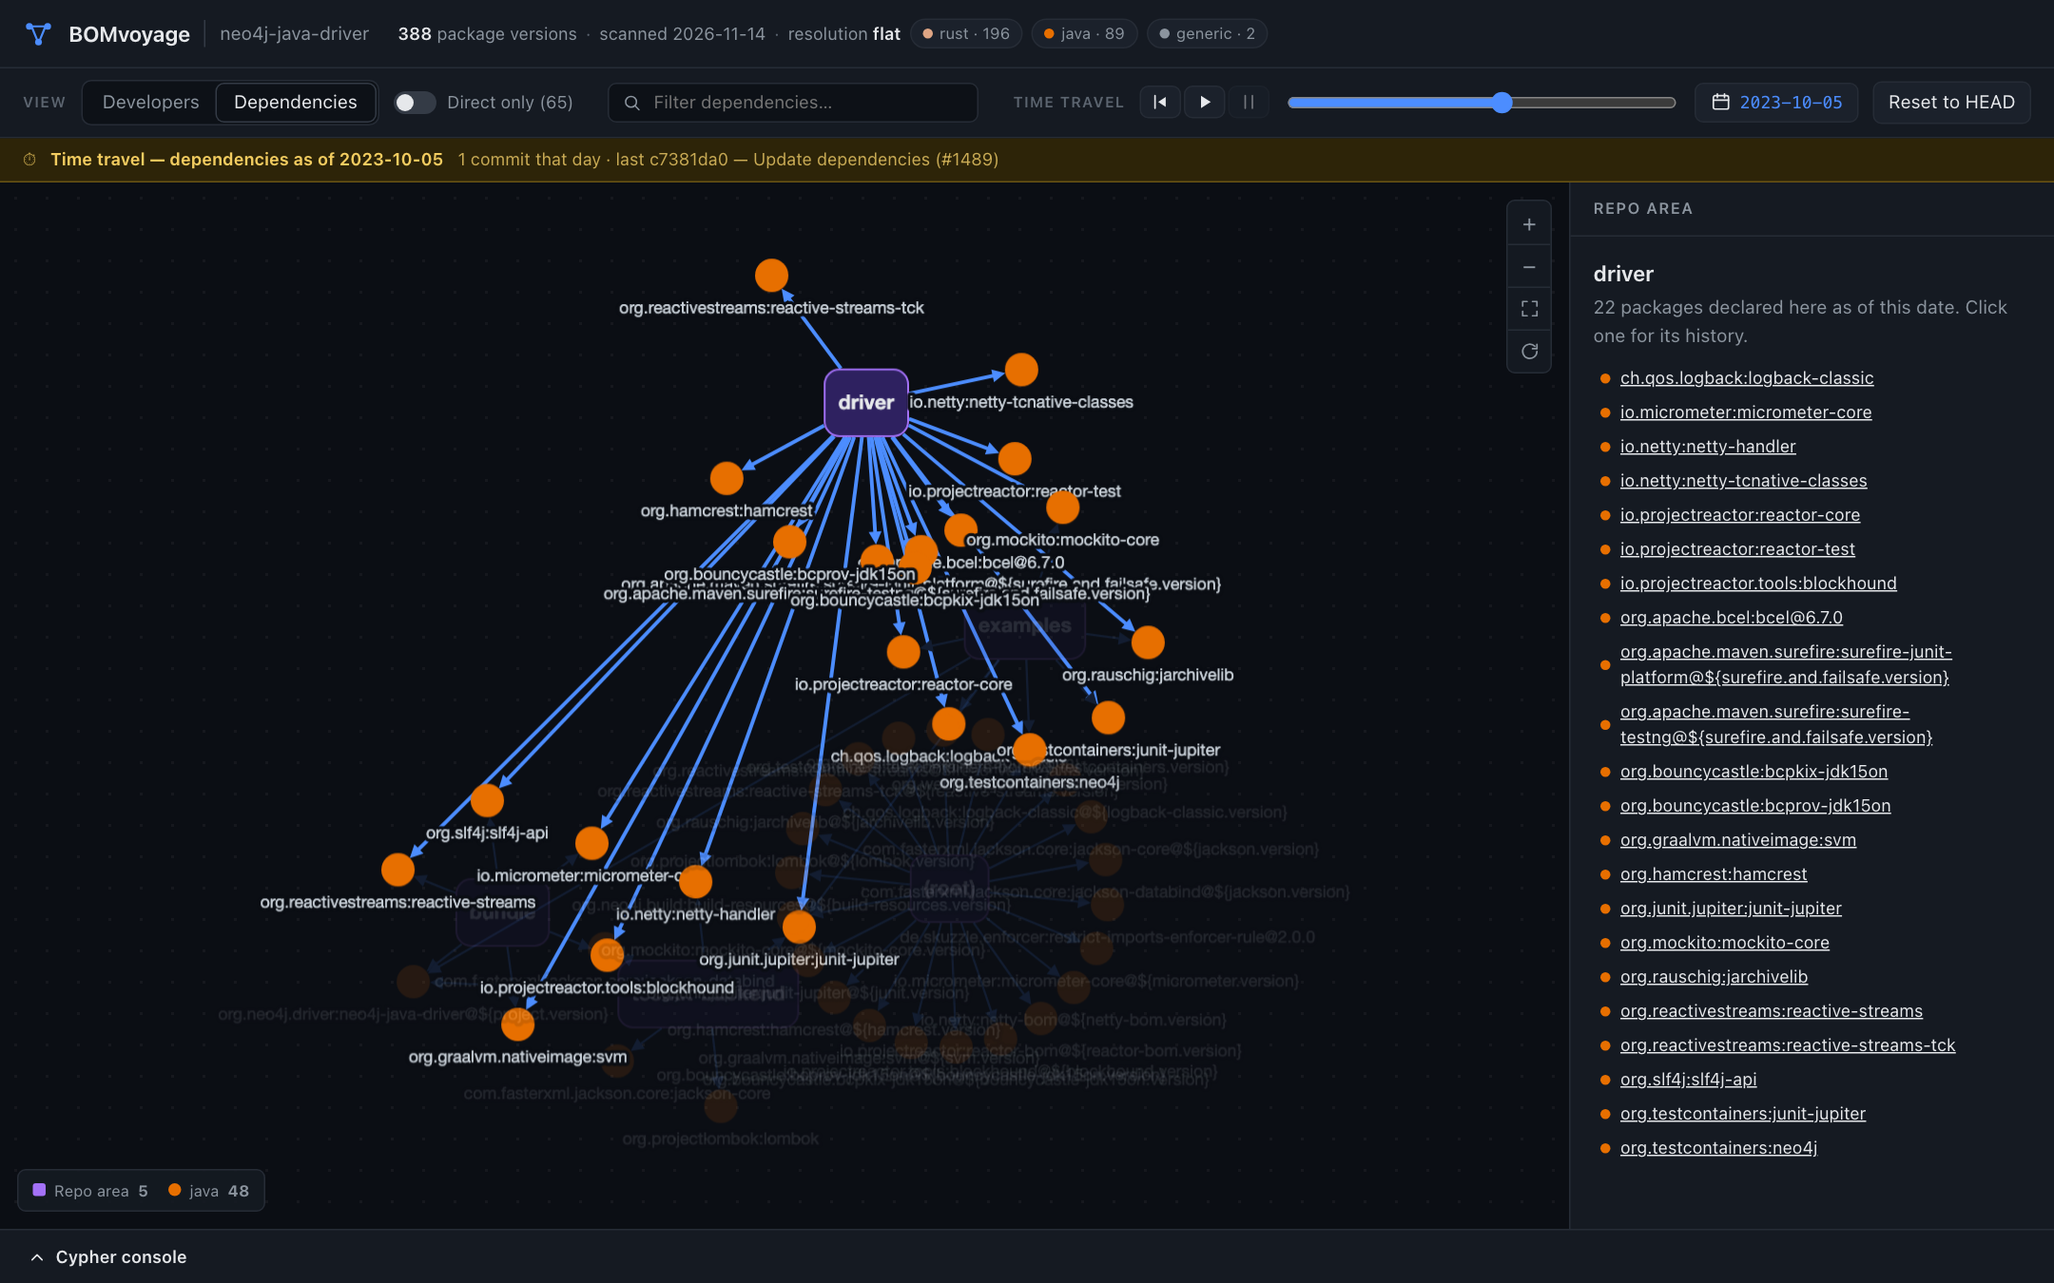
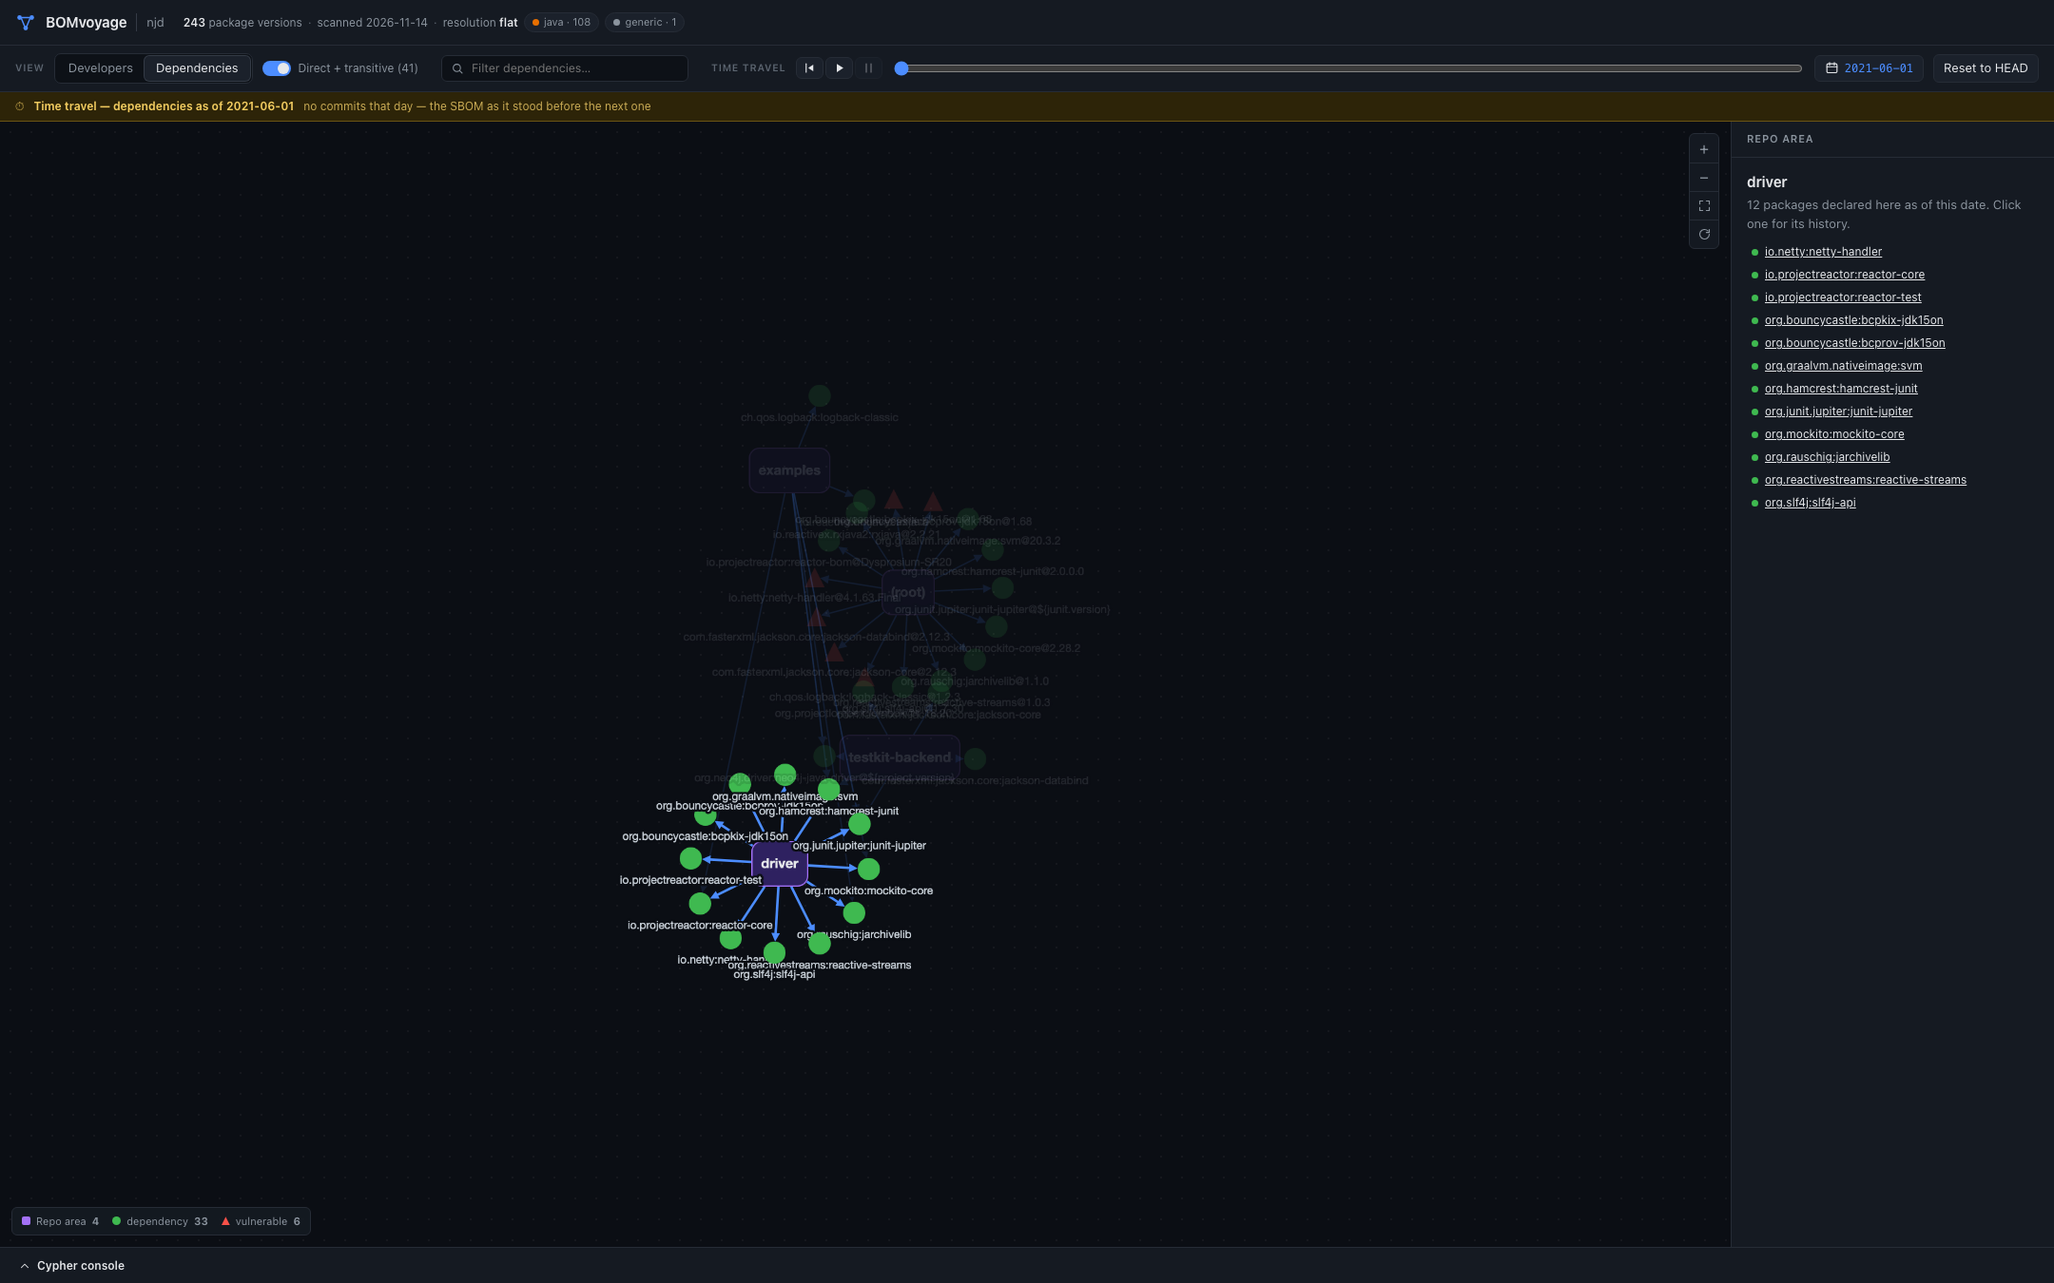
docs: detailed mode — README, security disclosure, test inventory, screenshots
- README: CLI block with the new flags/subcommand, a 'Detailed mode
  (deps.dev)' section with the third-party network disclosure, the
  green/red color scheme, cache and BOMVOYAGE_DEPSDEV_KEY
- SECURITY.md: what detailed mode sends (dependency names + versions to
  api.deps.dev; advisory IDs to api.osv.dev), what it never sends, the
  transport policy, and advice to leave it off where dependency
  metadata is sensitive
- TESTS.md: full inventory at 71 tests incl. the depsdev suite, the
  node --check UI gates and the binary-level detailed-mode regression
- agent skill: detailed mode commands + the vulnerable-deps Cypher
- screenshots: regenerated from a live --detailed --vuln-details
  session over neo4j-java-driver (green packages, red triangles,
  jackson-databind advisory list with severity chips)
- RELEASING.md: stale test count (32 → 71)

diff --git a/README.md b/README.md
@@ -54,10 +54,13 @@ the view you're looking at.
 
 All screenshots below are real BOMvoyage sessions over the
 [neo4j-java-driver](https://github.com/neo4j/neo4j-java-driver) repository
-(388 package versions across 204 commits).
+(242 package versions across 317 commits), run in detailed mode
+(`--detailed --vuln-details`) — packages render green, and any with known
+security advisories break out as red triangles.
 
-**The Developers view** — who added what, at `2023-10-05` mid-playback. Developer
-hubs fan out to the packages they touched; the slider is mid-sweep:
+**The Developers view** — who added what, at `2021-06-01` mid-time-travel.
+Developer hubs fan out to the packages they added; red triangles mark the
+versions with known advisories:
 
 ![Developers view — the Neo4j Java driver's dependency history, mid-playback](docs/screenshots/developers.png)
 
@@ -66,10 +69,11 @@ packages highlighted and listed in the inspector:
 
 ![Dependencies view — the driver module's declared packages](docs/screenshots/dependencies.png)
 
-**A package's story** — `org.slf4j:slf4j-api` as of `2021-08-18`: who added it and
-when, its version timeline, and where it's used:
+**A package's story** — `com.fasterxml.jackson.core/jackson-databind@2.12.3`
+as of `2021-06-01`: license, deps.dev / repository links, and its 15 security
+advisories with severity chips, each linking to its osv.dev page:
 
-![Package inspector — slf4j-api's version timeline](docs/screenshots/package-inspector.png)
+![Package inspector — jackson-databind's advisories with severity chips](docs/screenshots/package-inspector.png)
 
 ## Why a graph, and why embedded
 
@@ -100,15 +104,64 @@ comparison is chronological.
 
 ```text
 bomvoyage                                  # scan + serve (the demo path)
+bomvoyage --detailed                       # the same, with deps.dev data on the graph
 bomvoyage scan   [PATH] [--db bomvoyage.rl] [--force] [--max-commits N]
 bomvoyage serve  [--db bomvoyage.rl] [--port 8334] [--open]
 bomvoyage export [--db bomvoyage.rl] [--format spdx|cyclonedx|json|csv] [--as-of DATE|SHA] [-o FILE]
 bomvoyage query  [--db bomvoyage.rl] <CYPHER>
+bomvoyage detailed [--db bomvoyage.rl] [--vuln-details] [--refresh]   # add deps.dev data to an existing graph, no rescan
 bomvoyage update check                      # is there a newer release?
 bomvoyage update apply                      # upgrade the binary in place
 bomvoyage skill install                     # install the agent skill for every coding agent on this machine
 bomvoyage skill list                        # which agents are detected / installed
 ```
+
+`--detailed`, `--vuln-details` and `--more-detailed` (= `--detailed
+--vuln-details`, implying the first) are global flags — they work on the
+default path, `scan`, and `serve` alike.
+
+### Detailed mode (deps.dev) — optional, off by default
+
+```console
+$ bomvoyage --detailed
+$ bomvoyage serve --detailed --vuln-details   # …with severity + summaries too
+```
+
+Detailed mode enriches every versioned package in the graph with live data
+from the **deps.dev** API: the package's deps.dev page, its repository and
+homepage links, its license (SPDX), and the security advisories that affect
+that exact version. Packages with advisories are drawn as **red triangles**
+in the explorer at HEAD and at every point on the time-travel slider — the
+version keyed into the graph is the version whose advisories you see. All
+other dependencies are drawn **green** (in every mode) so the triangles
+stand out; shape carries the distinction too, for colorblind readers.
+Clicking a package lists each advisory with a link to
+its osv.dev page. On a detailed graph the Cypher console also gains a
+prebuilt **"Vulnerable deps + who added them"** query — every dependency
+with advisories at the slider's point in time, linked to the developer who
+put that version there.
+
+- **Privacy note:** detailed mode makes network calls. It sends each
+  dependency's *name and version* to `api.deps.dev`, and each advisory ID to
+  `api.osv.dev` (with `--vuln-details`) — third-party services, which
+  therefore learn which packages your repository depends on. No source code,
+  file paths, git history, or anything else ever leaves the machine.
+  Detailed mode is off by default; all default paths are network-free apart
+  from the optional update check.
+- **`--vuln-details`** additionally fetches a severity label and a short
+  summary per advisory — one extra call per *distinct* advisory, deduplicated
+  across packages. **`--more-detailed`** is the shorthand for both tiers at
+  once: it *implies* `--detailed`, so `bomvoyage --more-detailed` is the
+  one-flag way to get the full works.
+- **Cached**: responses are stored under `~/.cache/bomvoyage/` and reused
+  forever (the data describes a package version, which doesn't change), so
+  re-runs and the standalone `bomvoyage detailed` command are fast. Delete
+  that directory, or pass `--refresh`, to re-fetch everything.
+- **Fault-tolerant**: network trouble warns per package and never fails a
+  scan. Undetailed graphs simply lack the data — nothing is cleared by a
+  rescan without the flag.
+- Requests to deps.dev can carry your own API key for a higher quota via the
+  `BOMVOYAGE_DEPSDEV_KEY` environment variable.
 
 ### Self-update
 
@@ -182,7 +235,10 @@ $ bomvoyage query --db bomvoyage.rl "MATCH (m:Manifest)-[r:DECLARES]->(p:Package
 - **Git access shells out to `git`** (no libgit2): a pinned `-z`/record-separator
   `git log` invocation, byte-capped stdout, malformed records are errors.
 - **No web framework**: the HTTP layer is hand-rolled over `std::net` and the UI
-  (cytoscape.js) is embedded in the binary — fully offline, nothing to install.
+  (cytoscape.js) is embedded in the binary — nothing to install. Default paths
+  are fully offline apart from the optional daily update check; **detailed
+  mode is the one opt-in network feature** (see the note above on what it
+  sends and to whom).
 - **Bounded by construction**: commit caps, 64 MiB manifest caps, usage-scan file caps;
   hitting a cap warns loudly instead of truncating silently.
 
@@ -298,7 +354,9 @@ attestations. The release process is documented in
 
 See [SECURITY.md](SECURITY.md) for how to report a vulnerability and what the
 tool's security model is (local-only binding, read-only Cypher enforcement,
-treats repository content as untrusted data).
+treats repository content as untrusted data) — including what the opt-in
+**detailed mode** network calls send to third parties (dependency names and
+versions to deps.dev; advisory IDs to OSV) and what they deliberately do not.
 
 Supply-chain gates on every PR: cargo-deny (RustSec advisories including
 known-malicious crates, crates.io-only sources, permissive licenses,

diff --git a/TESTS.md b/TESTS.md
@@ -11,9 +11,9 @@ Run everything locally with:
 $ cargo test
 ```
 
-The suite is 53 tests: 52 unit tests in the library plus one end-to-end
-integration test (`tests/integration.rs`) that builds a real git repository
-commit by commit and runs the full scan → graph → temporal-query pipeline.
+The suite is 71 tests: 68 unit tests in the library plus three end-to-end
+integration tests (`tests/integration.rs`) that build a real git repository
+commit by commit and run the full scan → graph → temporal-query pipeline.
 
 ## Repository discovery (`src/scan/discover.rs`)
 
@@ -87,6 +87,9 @@ commit by commit and runs the full scan → graph → temporal-query pipeline.
 |---|---|
 | `url_decode_percent_plus_and_multibyte` | Query-string decoding: `%XX` escapes, `+` as space, multibyte UTF-8; malformed input passes through literally, never panics |
 | `query_param_takes_first_value` | Repeated query params take the first value; absent params return `None` |
+| `embedded_ui_scripts_parse` | Every embedded UI script (`app.js`, `search.js`) parses under `node --check` — the hand-rolled JS has no build step, so a syntax error ships silently and blanks the explorer (skipped where `node` is absent; CI always has it, plus an explicit lint-job gate) |
+| `index_references_only_embedded_assets` | `index.html` references only scripts/styles the server actually embeds and routes |
+| `embedded_ui_wiring_smoke` | Behavior of the real `app.js` run in node (`tests/ui_smoke.mjs`, stubbed DOM + fetch, offline, two worlds): on a detailed graph `init()` executes end-to-end and the "Vulnerable deps + who added them" preset appears **exactly once** (splicing it into the preset array *and* button-injecting it once duplicated it); packages render green (`#3fb950`) in **every** mode, with red triangles marking vulnerable ones |
 
 ## Self-update (`src/update.rs`)
 
@@ -112,11 +115,35 @@ commit by commit and runs the full scan → graph → temporal-query pipeline.
 | `agent_table_is_sane` | The supported-agent table: unique keys, no shared config roots, matches the documented 12-agent set |
 | `embedded_skill_has_valid_frontmatter` | The embedded SKILL.md has valid frontmatter and its body teaches the commands it advertises |
 
+## Detailed mode — deps.dev data (`src/depsdev.rs`)
+
+Detailed mode is opt-in (`--detailed`, plus `--vuln-details` for tier 2) and
+the only tests here that touch the network are none: every one runs against
+fixture JSON or a temp-directory cache.
+
+| Test | What it tests |
+|---|---|
+| `path_escape_cases` | `encodeURIComponent`-style path escaping: npm scoped names (`@types/node` → `%40types%2Fnode`), maven coordinates (`:` → `%3A`), go module paths (`/` → `%2F`), unreserved names unchanged |
+| `pypi_names_normalize_pep503` | PyPI name normalization is PEP 503 (matching the deps.dev key space); npm/cargo/maven names pass through untouched |
+| `ecosystem_mapping` | Graph ecosystem spellings map to deps.dev systems (`python`→`PYPI` … `node`→`NPM`); `generic` (the root node) and unknowns are excluded |
+| `urls_escape_name_and_version` | The per-version API URL and the human-facing deps.dev page URL escape name and version correctly |
+| `version_row_maps_fields` | deps.dev VersionInfo → node-property row: `HOMEPAGE`/`SOURCE_REPO` links, licenses joined, `advisoryKeys` → advisories JSON (+ defensive `aliases`), `vulns` count, `isDeprecated`, timestamp |
+| `version_row_handles_missing_fields` | A minimal VersionInfo produces a complete row (empty license, zero vulns, `[]` advisories) — never a missing key |
+| `not_found_row_shape` | A 404 still writes a complete row (`depsdev_status: "not_found"`, `vulns: 0`) so looked-up-but-absent is distinguishable from never-looked-up |
+| `osv_detail_prefers_database_specific_severity` | OSV advisory mapping: `database_specific.severity` wins (CVSS vectors deliberately unparsed), summary extracted, absent fields → None |
+| `osv_summary_is_capped` | Stored advisory summaries are capped at 200 chars (char-boundary safe) |
+| `fold_osv_details_augments_and_preserves` | Folding OSV details into a row's advisories JSON adds severity/summary and leaves untouched entries (no detail fetched) intact |
+| `collect_ids_dedups_via_caller` | Distinct advisory-id collection across packages; malformed JSON tolerated |
+| `cache_roundtrip_including_negative` | The disk cache writes and reads back, including cached 404 negatives; a missing cache dir is a universal miss and a no-op write |
+| `host_allowlist` | The transport policy: HTTPS to `api.deps.dev`/`api.osv.dev` only — look-alike hosts, plaintext, other schemes, userinfo tricks refused |
+
 ## End-to-end (`tests/integration.rs`)
 
 | Test | What it tests |
 |---|---|
 | `temporal_sbom_end_to_end` | The whole product: a real git repository built commit by commit → `scan` → graph write → temporal Cypher (who added a dep, when, as-of queries at past dates) → idempotent rescan |
+| `detailed_mode_properties_survive_rescan` | Detailed-mode rows round-trip through the production write path, **survive a full rescan** (MERGE never clears unknown properties), and re-applying overwrites idempotently; also pins `/api/meta`'s `detailed_packages` (0 on an undetailed graph, 1 after) which the UI uses to offer the vulnerable-deps console preset — no network, rows hand-built |
+| `detailed_mode_runs_even_when_history_is_current` | Drives the real binary: `scan --detailed` on a repo whose HEAD was already scanned must still run the detailed pass (the "history is current" short-circuit once returned before it — the silently-empty-enrichment bug); `--more-detailed` **implies** `--detailed` (enriches alone, never demands the other flag); plain `--vuln-details` alone still warns. Network-free: offline lookups warn and exit 0 |
 
 ## Adding a test
 

diff --git a/src/skill/bomvoyage-SKILL.md b/src/skill/bomvoyage-SKILL.md
@@ -18,9 +18,14 @@ bomvoyage scan [DIR] --db FILE     # scan only (--force to rescan unchanged HEAD
 bomvoyage serve --db FILE [--port 8334] [--open]
 bomvoyage query --db FILE "CYPHER" # read-only openCypher against the graph, JSON out
 bomvoyage export --db FILE --format spdx|cyclonedx|json|csv [--as-of DATE|SHA] [-o FILE]
+bomvoyage detailed --db FILE       # add deps.dev data to an existing graph in place (no rescan)
 bomvoyage update check             # is there a newer release?
 bomvoyage update apply             # upgrade the binary in place (checksum + provenance verified)
 ```
+
+Global flags `--detailed`, `--vuln-details` and `--more-detailed` (the
+shorthand implying `--detailed`) work on the default path, `scan`, and
+`serve` (and `--vuln-details`/`--more-detailed` on `detailed`).
 
 ## Graph model
 
@@ -60,6 +65,19 @@ WHERE r.since_date <= '2024-06-01' AND (r.removed_date IS NULL OR r.removed_date
 RETURN p.purl ORDER BY p.purl
 ```
 
+Vulnerable dependencies at a point in time, with who added them (only on a
+`--detailed` graph — `vulns` is absent otherwise, so this returns no rows):
+
+```cypher
+MATCH (m:Manifest)-[r:DECLARES]->(p:Package)
+WHERE p.vulns > 0
+  AND r.since_date <= '2024-06-01'
+  AND (r.removed_date IS NULL OR r.removed_date > '2024-06-01')
+MATCH (x:Person)-[a:ADDED]->(p)
+WHERE a.at_sha = r.since_sha
+RETURN x, a, p
+```
+
 A name that is not in the repo returns zero rows by design — first run the
 top-deps query to learn the names present.
 
@@ -76,3 +94,10 @@ top-deps query to learn the names present.
 - The explorer binds `127.0.0.1` only; kill the process to stop serving.
 - Scan caps (commits, manifest sizes) warn loudly rather than truncating
   silently — surface those warnings to the user.
+- **`--detailed` is an opt-in network feature**: it sends dependency names
+  and versions to the third-party deps.dev/OSV APIs to fetch licenses,
+  links, and security advisories (vulnerable packages show as red triangles
+  in the explorer). Ask before enabling it for a user — default paths make
+  no network calls beyond the optional update check. Responses cache under
+  `~/.cache/bomvoyage/`; `bomvoyage detailed` adds the data to an existing
+  graph without rescanning.

diff --git a/SECURITY.md b/SECURITY.md
@@ -52,6 +52,25 @@ findings:
 - **The explorer binds `127.0.0.1` only** and serves the current directory's
   graph. It performs no authentication — anything that can reach your loopback
   interface can read it, so don't expose the port.
+- **Detailed mode makes third-party network calls and reveals your dependency
+  list.** Opt-in only (`--detailed`, plus `--vuln-details` for tier 2), off by
+  default. When enabled, BOMvoyage sends each dependency's **name and version**
+  to the deps.dev API (`api.deps.dev`, a service operated by Google) and, with
+  `--vuln-details`, each advisory's ID to the OSV API (`api.osv.dev`). Those
+  services therefore learn which packages — and, in aggregate, which
+  dependency ecosystem and versions — the scanned repository uses. **What is
+  never sent**: source code, file contents, file paths, git history, author
+  information, repository identity, or anything beyond the (ecosystem, name,
+  version) triples already public on package registries. The transport is
+  HTTPS to an allowlisted fixed host set (`api.deps.dev`, `api.osv.dev`) —
+  every URL is constructed by the tool and checked against that list before
+  any connection; redirects are never followed. Responses are cached locally
+  under `~/.cache/bomvoyage/` (delete it to remove all traces). If your
+  organization treats dependency metadata as sensitive (air-gapped builds,
+  confidential projects), leave detailed mode off — every default path is
+  network-free apart from the once-a-day update check below. An API key for
+  deps.dev quota may be supplied via the `BOMVOYAGE_DEPSDEV_KEY` environment
+  variable; it is sent only to `api.deps.dev`.
 - **The Cypher console is read-only by enforcement**, not convention: statements
   starting with mutation keywords are refused server-side before the engine
   sees them, and `export` / `query` open the database read-only.

diff --git a/RELEASING.md b/RELEASING.md
@@ -11,7 +11,7 @@ the README's [Building](README.md#building) section.
 ```console
 $ git clone https://github.com/b33f/BOMvoyage && cd BOMvoyage
 $ cargo build --release --locked        # binary: target/release/bomvoyage
-$ cargo test --release --locked         # 32 tests: parsers, replay, e2e git
+$ cargo test --release --locked         # 71 tests: parsers, replay, e2e git
 $ cargo clippy --locked --all-targets -- -D warnings
 $ cargo fmt --all -- --check
 ```
